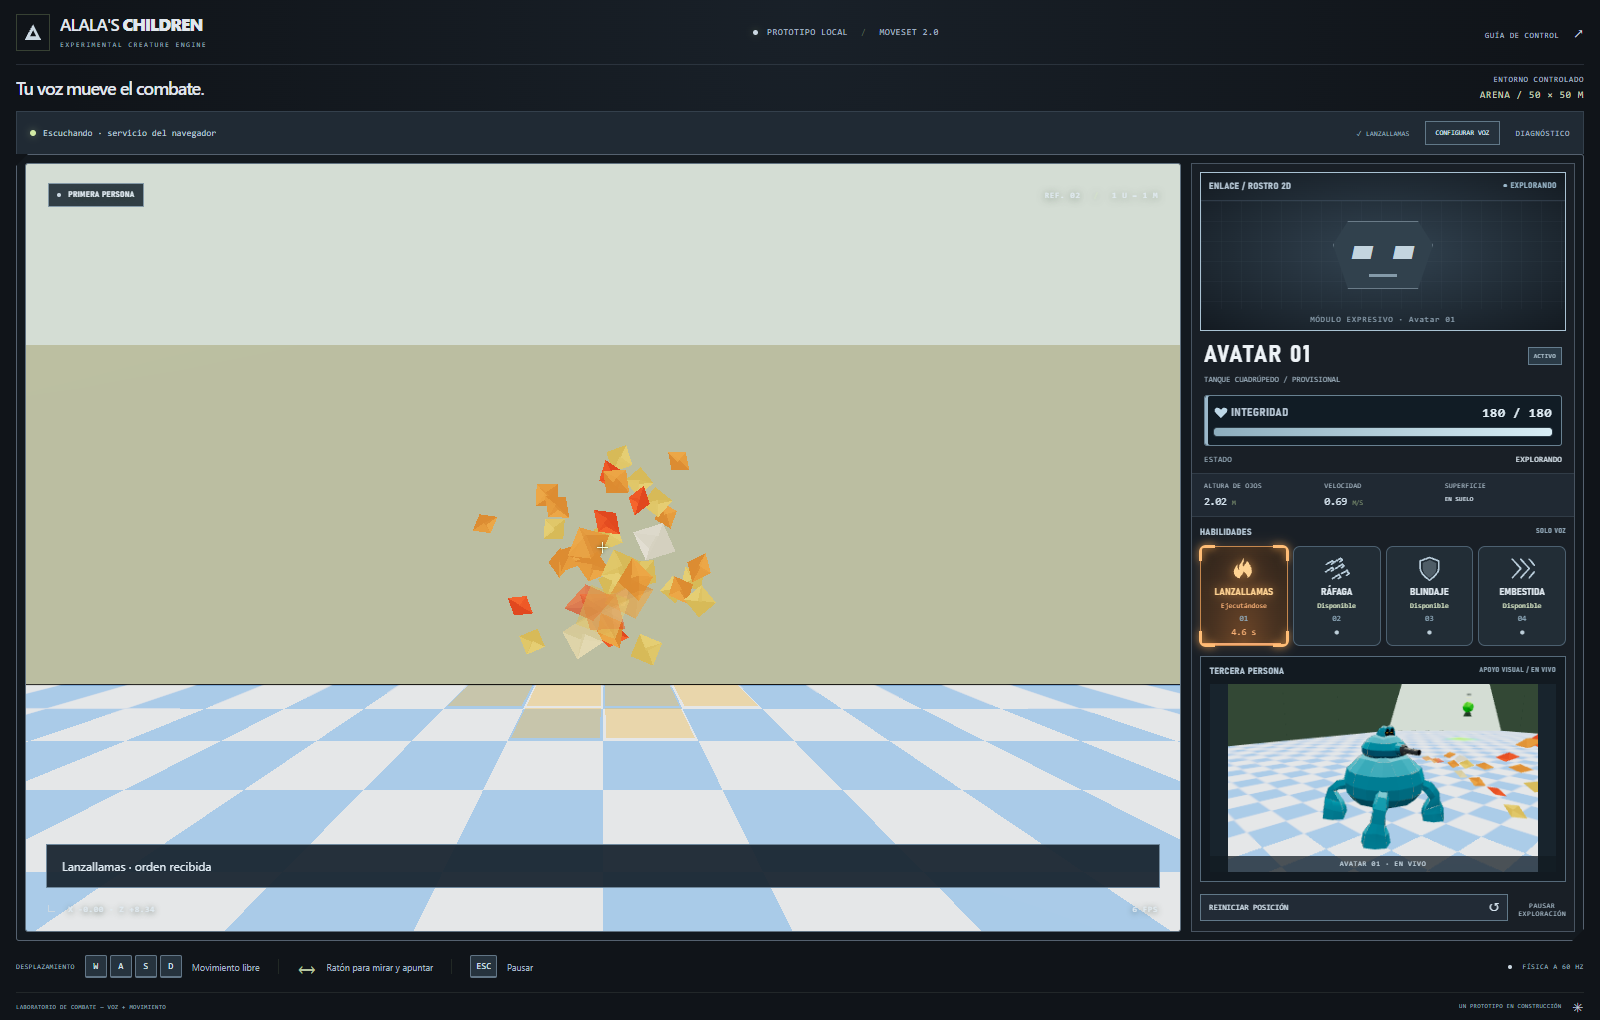
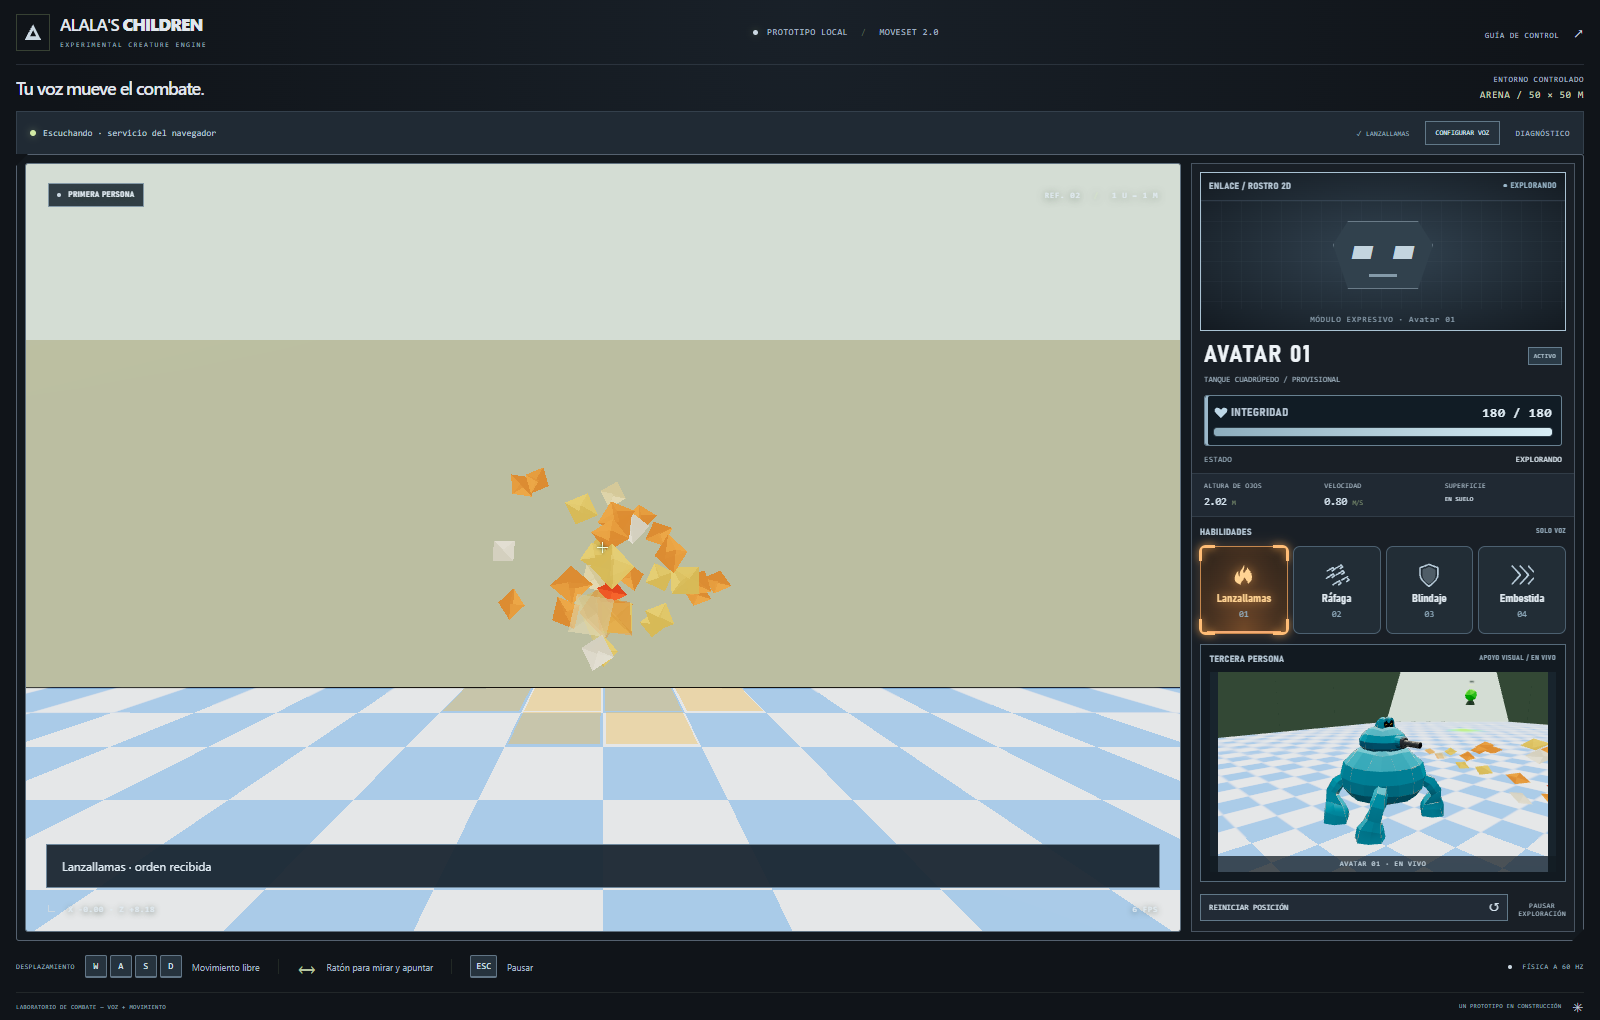
Compacta habilidades en tarjetas cuadradas con símbolo nombre y orden

diff --git a/src/style.css b/src/style.css
@@ -39,3 +39,5 @@ body{background:radial-gradient(ellipse at top,#26334066,transparent 65%),#10141
 .combat-build .ability-row{min-height:105px;gap:4px;overflow:visible;border-radius:7px}.ability-symbol{width:27px;height:27px;flex-shrink:0;color:#b7cbd9;transition:color .15s,filter .15s}.combat-build .ability-number{order:3;font-size:8px}.combat-build .ability-row b{font-size:10px;letter-spacing:.01em}.combat-build .ability-clock{order:4}.combat-build .ability-row>div{min-width:0}.activation-corners{position:absolute;inset:-2px;pointer-events:none;border-radius:7px;opacity:0;background:linear-gradient(currentColor,currentColor) left top/16px 3px no-repeat,linear-gradient(currentColor,currentColor) left top/3px 16px no-repeat,linear-gradient(currentColor,currentColor) right top/16px 3px no-repeat,linear-gradient(currentColor,currentColor) right top/3px 16px no-repeat,linear-gradient(currentColor,currentColor) left bottom/16px 3px no-repeat,linear-gradient(currentColor,currentColor) left bottom/3px 16px no-repeat,linear-gradient(currentColor,currentColor) right bottom/16px 3px no-repeat,linear-gradient(currentColor,currentColor) right bottom/3px 16px no-repeat;transition:opacity .15s}
 .combat-build .ability-row[data-state=active]{color:#ffbd76;background:radial-gradient(ellipse at bottom,#6d4628,#261f1a);box-shadow:0 0 13px #e89f5544,inset 0 0 15px #d5863422;border-color:#c5874e}.ability-row[data-state=active] .activation-corners{opacity:1;filter:drop-shadow(0 0 4px #ffad54)}.combat-build .ability-row[data-state=active] .ability-symbol,.combat-build .ability-row[data-state=active] b{color:#ffd393;filter:drop-shadow(0 0 5px #ffad5499)}.combat-build .ability-row[data-state=cooldown] .ability-symbol{color:#7b8c9a}
 .integrity-module{position:relative;border:1px solid #688191;border-radius:3px;padding:9px;background:#111c25;box-shadow:inset 3px 0 #9cb8ca}.integrity-symbol{width:14px;height:14px;vertical-align:middle;color:#bdd7e7}.combat-build .health-line{display:flex;align-items:center;margin:0 0 8px;font-size:11px;gap:8px}.combat-build .health-line b{white-space:nowrap;font:600 13px var(--mono)}.combat-build .health-bar{height:8px;border-radius:3px;overflow:hidden;background:#33414b;box-shadow:0 0 0 1px #73899944}.combat-build .health-bar>span{background:linear-gradient(90deg,#8daebe,#d8edf5);box-shadow:0 0 8px #aecfdf66;transition:width .15s linear}
+/* Compact square moveset: symbol, name and slot only. */
+.combat-build .ability-row{aspect-ratio:1;min-height:0;padding:7px 2px;gap:5px;justify-content:center;overflow:visible}.combat-build .ability-row .ability-status,.combat-build .ability-row .ability-clock{display:none}.combat-build .ability-row b{text-transform:none;font-size:11px;letter-spacing:0;line-height:1.1}.combat-build .ability-row>div{gap:0}.combat-build .ability-row .ability-number{font-size:9px;line-height:1;order:3}.combat-build .ability-symbol{width:26px;height:26px}.combat-build .ability-row>i{left:6px;bottom:0;max-width:calc(100% - 12px);height:2px}

diff --git a/docs/HUD.md b/docs/HUD.md
@@ -11,3 +11,5 @@ Paleta base: grafito, gris azulado y texto claro. Ámbar se reserva para habilid
 Las habilidades incluyen símbolos SVG propios (llama, proyectiles, escudo y avance). Su estado activo enciende símbolo, nombre y las cuatro esquinas con un acento ámbar; la recarga atenúa el símbolo. Integridad tiene símbolo, cifra y barra. Tipografía técnica condensada con alternativas locales, sin depender de fuentes descargadas.
 
 Verificación: compilación cliente/servidor correcta. Suite de navegador: 13 casos aprobados y una expectativa antigua del minimapa actualizada; su repetición focalizada pasó. Tras los símbolos y esquinas, pasaron de nuevo el caso de voz/movimiento y los dos escenarios PvP (combate, salud, resultado y revancha, sala llena e invitación inválida). Las transcripciones son simuladas y Chrome se ejecutó sin ventanas, silenciado.
+
+Ajuste de jerarquía: tarjetas cuadradas (proporción 1:1) con solo símbolo, nombre y número visibles. Los textos de estado y tiempo siguen en el DOM para diagnóstico; la barra inferior y la luz comunican recarga/actividad sin alargar la tarjeta.
